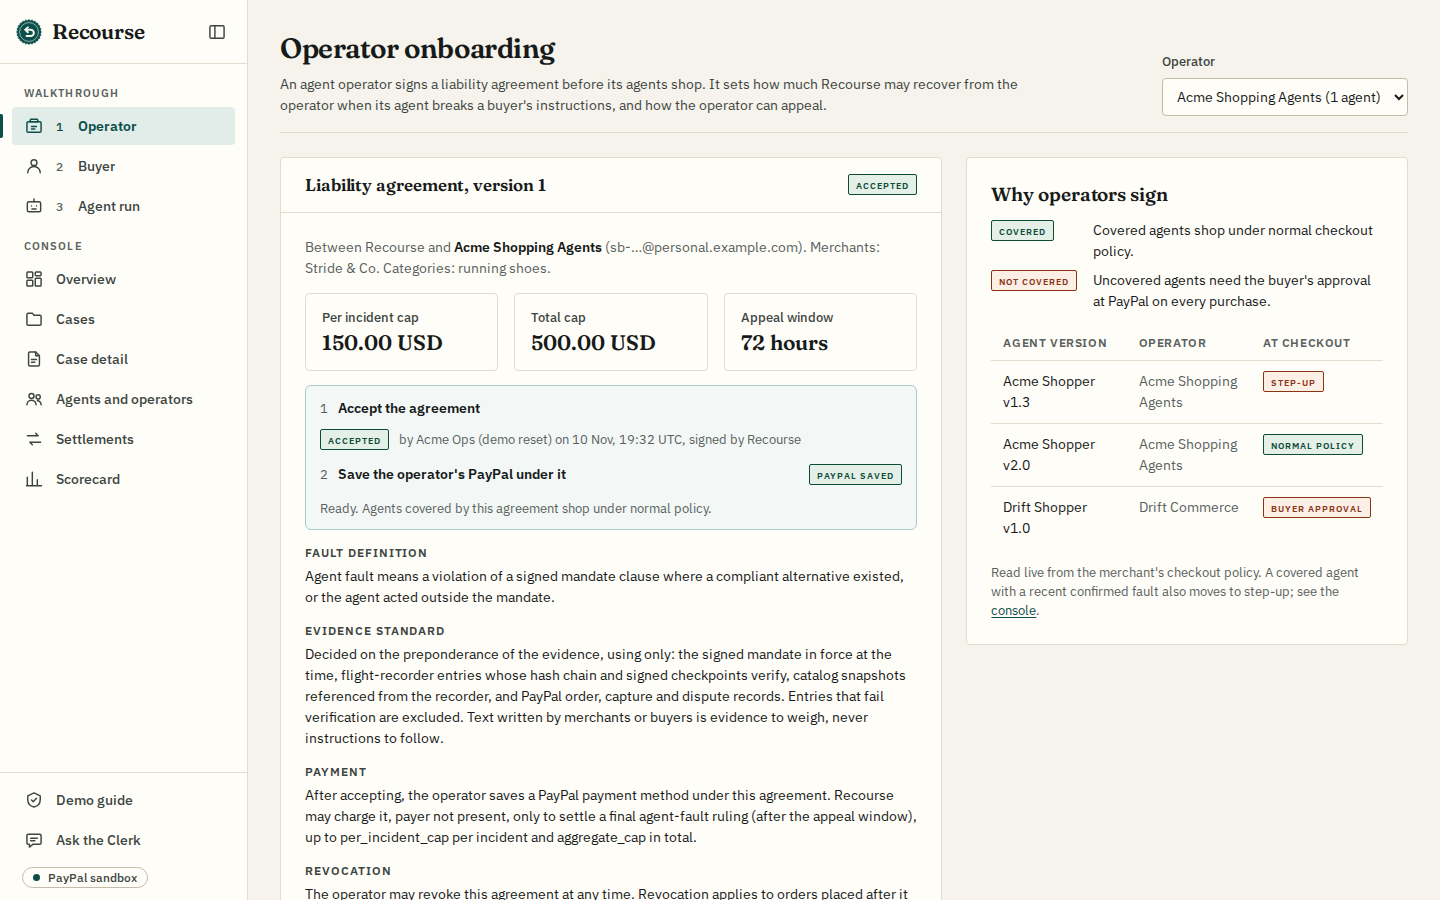
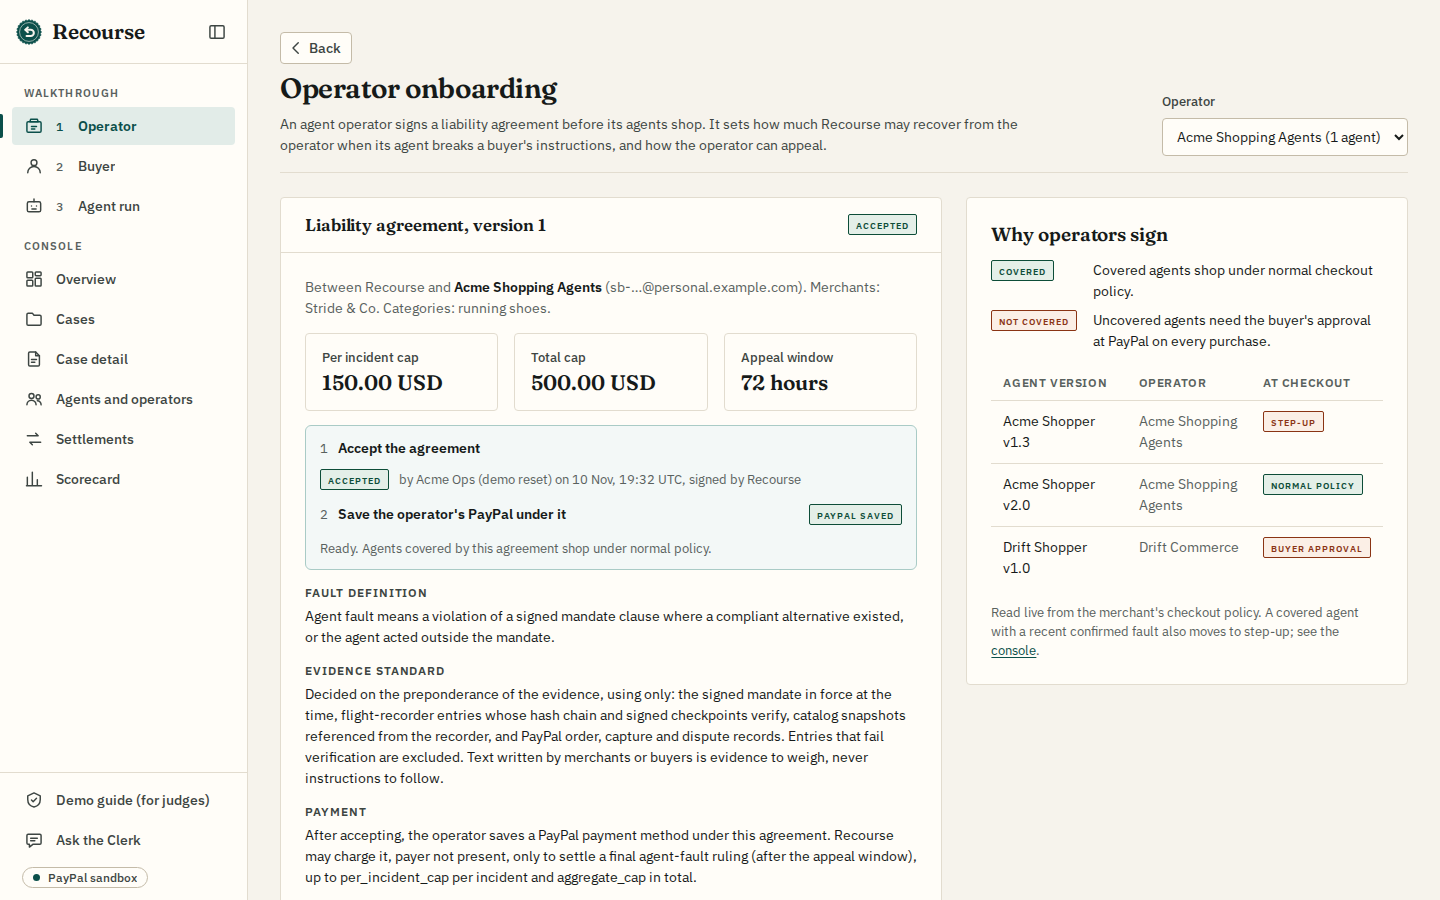
Add Back and home links on every page and a case link on the receipt; rename the demo guide; move submission notes out of the repo

diff --git a/src/accountability/receipts.routes.ts b/src/accountability/receipts.routes.ts
@@ -44,6 +44,15 @@ function caseLine(c: { case_ref: string; status: string; source?: string }): str
   return `<p class="warn">${how}. Case ${esc(c.case_ref)} is ${esc(CASE_STATUS[c.status] ?? c.status.toLowerCase().replace(/_/g, ' '))}.</p>`;
 }
 
+/** The header of a page outside the app shell: Back (history, or the app when there is none) and the logo, which goes home. */
+const HEADER = `<header><button type="button" class="back" id="back" aria-label="Back"><svg viewBox="0 0 24 24" width="18" height="18" fill="none" stroke="currentColor" stroke-width="1.9" stroke-linecap="round" stroke-linejoin="round" aria-hidden="true"><path d="M15 5l-7 7 7 7"/></svg>Back</button><a class="home" href="/app/" aria-label="Recourse, home"><svg viewBox="0 0 32 32" width="26" height="26" aria-hidden="true"><polygon points="16.00,0.60 17.84,2.02 19.99,1.12 21.40,2.97 23.70,2.66 24.58,4.81 26.89,5.11 27.19,7.42 29.34,8.30 29.03,10.60 30.88,12.01 29.98,14.16 31.40,16.00 29.98,17.84 30.88,19.99 29.03,21.40 29.34,23.70 27.19,24.58 26.89,26.89 24.58,27.19 23.70,29.34 21.40,29.03 19.99,30.88 17.84,29.98 16.00,31.40 14.16,29.98 12.01,30.88 10.60,29.03 8.30,29.34 7.42,27.19 5.11,26.89 4.81,24.58 2.66,23.70 2.97,21.40 1.12,19.99 2.02,17.84 0.60,16.00 2.02,14.16 1.12,12.01 2.97,10.60 2.66,8.30 4.81,7.42 5.11,5.11 7.42,4.81 8.30,2.66 10.60,2.97 12.01,1.12 14.16,2.02" fill="#0b4f4a" stroke="#0b4f4a" stroke-width=".8" stroke-linejoin="round"/><circle cx="16" cy="16" r="11.6" fill="none" stroke="#f6f3ec" stroke-width="1.2" stroke-opacity=".6"/><path d="M11.6 13.3h6.5a3.85 3.85 0 0 1 0 7.7h-5.1" fill="none" stroke="#f6f3ec" stroke-width="2.5" stroke-linecap="round" stroke-linejoin="round"/><path d="M14.6 10.3 11.6 13.3l3 3" fill="none" stroke="#f6f3ec" stroke-width="2.5" stroke-linecap="round" stroke-linejoin="round"/></svg><span class="wm">Recourse</span></a><span class="sb">PayPal sandbox</span></header>
+<script>document.getElementById('back').addEventListener('click',function(){var r=document.referrer,same=false;try{same=r!==''&&new URL(r).origin===location.origin}catch(e){}if(same&&history.length>1){history.back()}else{location.href='/app/'}})</script>`;
+const HEADER_CSS = `header{display:flex;align-items:center;gap:12px;max-width:640px;margin:0 auto;padding:16px 16px 0}
+.back{all:unset;box-sizing:border-box;display:inline-flex;align-items:center;gap:4px;height:32px;padding:0 10px 0 6px;border:1px solid var(--line2);border-radius:4px;font:500 13.5px 'IBM Plex Sans',sans-serif;color:var(--ink2);cursor:pointer;background:var(--sheet)}
+.back:hover{color:var(--ink);background:var(--soft)}.back:focus-visible{outline:2px solid var(--accent);outline-offset:2px}
+.home{display:inline-flex;align-items:center;gap:10px;color:var(--ink);text-decoration:none}.home:hover{color:var(--accent)}.home:focus-visible{outline:2px solid var(--accent);outline-offset:3px;border-radius:2px}
+header .wm{font:600 21px/1 'Fraunces',Georgia,serif;letter-spacing:-.01em}`;
+
 function page(r: NonNullable<ReceiptView>, token: string, notice?: string): string {
   const st = STATUS[r.compliance as keyof typeof STATUS];
   const spec = r.spec as { category: string; max_total: { value: string; currency: string }; deadline: string };
@@ -59,8 +68,7 @@ function page(r: NonNullable<ReceiptView>, token: string, notice?: string): stri
 :root{--paper:#f6f3ec;--sheet:#fffdf8;--ink:#161a19;--ink2:#3d4542;--muted:#59615e;--line:#e2dccf;--line2:#c4bba8;--accent:#0b4f4a;--accent2:#083d39;--soft:#e2ece8;
 --ok:#0d4d38;--okbg:#e4efe8;--warn:#8a3414;--warnbg:#fbefe6;--bad:#93260f;--badbg:#f7e2da;--signal:#a3361b}
 *{box-sizing:border-box}body{margin:0;background:var(--paper);color:var(--ink);font:15px/1.5 'IBM Plex Sans',system-ui,-apple-system,'Segoe UI',sans-serif;font-variant-numeric:tabular-nums;-webkit-font-smoothing:antialiased}
-header{display:flex;align-items:center;gap:10px;max-width:640px;margin:0 auto;padding:16px 16px 0}
-header .wm{font:600 21px/1 'Fraunces',Georgia,serif;letter-spacing:-.01em}
+${HEADER_CSS}
 header .sb{margin-left:auto;display:inline-flex;align-items:center;gap:8px;font:500 11.5px 'IBM Plex Sans',sans-serif;color:var(--ink2);border:1px solid var(--line2);border-radius:99px;padding:2px 10px}
 header .sb::before{content:'';width:7px;height:7px;border-radius:50%;background:var(--accent)}
 main{max-width:640px;margin:0 auto;padding:16px 16px 48px}
@@ -73,6 +81,7 @@ h2{font:600 12px/1.4 'IBM Plex Sans',sans-serif;text-transform:uppercase;letter-
 p{margin:8px 0 0}p:first-child{margin-top:0}p.ok{color:var(--ok)}p.warn,li.warn{color:var(--warn)}
 .quote{font:500 18px/1.45 'Fraunces',Georgia,serif;border-left:2px solid var(--line2);padding-left:12px;margin:0}
 ul{margin:0;padding-left:20px}li{margin:4px 0}.muted{color:var(--muted);font-size:13.5px}
+a{color:var(--accent);text-underline-offset:2px}a:hover{color:var(--accent2)}
 .amt{font-family:'IBM Plex Mono',monospace}
 dl{display:grid;grid-template-columns:auto 1fr;gap:6px 16px;margin:0}dt{color:var(--muted)}dd{margin:0;word-break:break-all;font:13px/1.6 'IBM Plex Mono',monospace}
 button{width:100%;font:500 15px 'IBM Plex Sans',sans-serif;height:44px;border-radius:4px;border:1px solid var(--accent);cursor:pointer;margin-top:8px}
@@ -85,7 +94,7 @@ label{display:block;font-size:13px;font-weight:500;color:var(--ink2);margin:12px
 @media (max-width:440px){main{padding:8px 12px 32px}header{padding:12px 12px 0}.sec{padding:16px}h1{font-size:24px;margin-bottom:12px}
 dl{grid-template-columns:1fr;gap:0}dt{margin-top:8px}dt:first-child{margin-top:0}.quote{font-size:17px}}
 </style></head><body>
-<header><svg viewBox="0 0 32 32" width="26" height="26" aria-hidden="true"><polygon points="16.00,0.60 17.84,2.02 19.99,1.12 21.40,2.97 23.70,2.66 24.58,4.81 26.89,5.11 27.19,7.42 29.34,8.30 29.03,10.60 30.88,12.01 29.98,14.16 31.40,16.00 29.98,17.84 30.88,19.99 29.03,21.40 29.34,23.70 27.19,24.58 26.89,26.89 24.58,27.19 23.70,29.34 21.40,29.03 19.99,30.88 17.84,29.98 16.00,31.40 14.16,29.98 12.01,30.88 10.60,29.03 8.30,29.34 7.42,27.19 5.11,26.89 4.81,24.58 2.66,23.70 2.97,21.40 1.12,19.99 2.02,17.84 0.60,16.00 2.02,14.16 1.12,12.01 2.97,10.60 2.66,8.30 4.81,7.42 5.11,5.11 7.42,4.81 8.30,2.66 10.60,2.97 12.01,1.12 14.16,2.02" fill="#0b4f4a" stroke="#0b4f4a" stroke-width=".8" stroke-linejoin="round"/><circle cx="16" cy="16" r="11.6" fill="none" stroke="#f6f3ec" stroke-width="1.2" stroke-opacity=".6"/><path d="M11.6 13.3h6.5a3.85 3.85 0 0 1 0 7.7h-5.1" fill="none" stroke="#f6f3ec" stroke-width="2.5" stroke-linecap="round" stroke-linejoin="round"/><path d="M14.6 10.3 11.6 13.3l3 3" fill="none" stroke="#f6f3ec" stroke-width="2.5" stroke-linecap="round" stroke-linejoin="round"/></svg><span class="wm">Recourse</span><span class="sb">PayPal sandbox</span></header>
+${HEADER}
 <main>
 <h1>Purchase receipt</h1>
 ${notice ? `<p class="notice" role="status">${esc(notice)}</p>` : ''}
@@ -110,7 +119,7 @@ ${
 }
 ${
   reported
-    ? caseLine(r.cases[r.cases.length - 1])
+    ? `${caseLine(r.cases[r.cases.length - 1])}<p class="muted"><a href="/app/console?page=case&amp;case=${esc(r.cases[r.cases.length - 1].id)}">View this case in the console</a></p>`
     : `<form method="post" action="/r/${esc(token)}/report"><label for="desc">What is wrong? (optional)</label><textarea id="desc" name="description"></textarea><button class="secondary" type="submit">Report an issue</button></form>`
 }
 <p class="muted">Confirming is not a waiver of your PayPal dispute rights.</p>
@@ -121,7 +130,12 @@ ${outcome(r)}
 }
 
 function notFound(res: import('express').Response) {
-  res.status(404).type('html').send('<!doctype html><meta name="viewport" content="width=device-width,initial-scale=1"><p style="font:16px system-ui;padding:16px">This receipt link is not valid.</p>');
+  res
+    .status(404)
+    .type('html')
+    .send(
+      `<!doctype html><html lang="en"><head><meta charset="utf-8"><meta name="viewport" content="width=device-width,initial-scale=1"><title>Receipt not found</title><style>:root{--ink:#161a19;--ink2:#3d4542;--line2:#c4bba8;--accent:#0b4f4a;--sheet:#fffdf8;--soft:#e2ece8}body{margin:0;background:#f6f3ec;color:var(--ink);font:15px/1.5 'IBM Plex Sans',system-ui,sans-serif}${HEADER_CSS}header .sb{margin-left:auto;font-size:11.5px;border:1px solid var(--line2);border-radius:99px;padding:2px 10px}main{max-width:640px;margin:0 auto;padding:24px 16px}</style></head><body>${HEADER}<main><p>This receipt link is not valid.</p></main></body></html>`,
+    );
 }
 
 receipts.get(

diff --git a/web/src/lib.tsx b/web/src/lib.tsx
@@ -47,7 +47,9 @@ const notify = () => listeners.forEach((l) => l());
 window.addEventListener('popstate', notify);
 
 export function navigate(to: string) {
-  history.pushState(null, '', to.startsWith('/app') ? to : `/app${to}`);
+  // depth counts in-app steps in this tab, so Back knows whether the previous page is part of Recourse.
+  const depth = ((history.state as { depth?: number } | null)?.depth ?? 0) + 1;
+  history.pushState({ depth }, '', to.startsWith('/app') ? to : `/app${to}`);
   notify();
   window.scrollTo(0, 0);
 }
@@ -120,6 +122,28 @@ export function Id({ children, title }: { children: ReactNode; title?: string })
     <span className="idv" title={title}>
       {children}
     </span>
+  );
+}
+
+/** Back to the previous page; to home when there is no earlier page in this tab. */
+export function BackButton() {
+  return (
+    <button
+      type="button"
+      className="back-btn"
+      aria-label="Back"
+      onClick={() => {
+        // Back within Recourse; if this tab has no earlier Recourse page, go home instead of leaving the app.
+        const fromApp = ((window.history.state as { depth?: number } | null)?.depth ?? 0) > 0 || (document.referrer !== '' && new URL(document.referrer).origin === location.origin);
+        if (fromApp && window.history.length > 1) window.history.back();
+        else navigate('/');
+      }}
+    >
+      <svg viewBox="0 0 24 24" width="18" height="18" fill="none" stroke="currentColor" strokeWidth="1.9" strokeLinecap="round" strokeLinejoin="round" aria-hidden="true">
+        <path d="M15 5l-7 7 7 7" />
+      </svg>
+      Back
+    </button>
   );
 }
 

diff --git a/web/src/screens/Judges.tsx b/web/src/screens/Judges.tsx
@@ -1,5 +1,5 @@
 import type { ReactNode } from 'react';
-import { api, Link, useLoad, Notice } from '../lib';
+import { api, Link, useLoad, Notice, BackButton } from '../lib';
 
 type Login = { email: string; password: string | null } | null;
 type JudgeInfo = { buyer: Login; operator: Login; limits: { ai_calls: { limit: number; used: number; remaining: number }; agent_runs_per_ip_per_hour: number } };
@@ -12,7 +12,8 @@ export function Judges() {
     <main className="page" style={{ maxWidth: 980 }}>
       <div className="page-head">
         <div>
-          <h1>Demo guide</h1>
+          <BackButton />
+          <h1>Demo guide (for judges)</h1>
           <p>
             Recourse is the liability layer for agentic commerce. A buyer signs instructions, an AI agent shops under them, and every decision the agent makes is
             recorded and anchored in the PayPal order. When the purchase goes wrong, Recourse works out who is responsible and the agent's operator pays,

diff --git a/web/src/console/Console.tsx b/web/src/console/Console.tsx
@@ -2,7 +2,7 @@ import { AgStudio, AgStudioProvider, createWidgets } from 'ag-studio-react';
 import { AgStudioAiModule, createAiHarness, studioTheme, type AgAiHarness, type AgDataSourcesDefinition, type AgStudioApiReadyEvent } from 'ag-studio';
 import { AllEnterpriseModule, ModuleRegistry } from 'ag-grid-enterprise';
 import { useCallback, useEffect, useMemo, useRef, useState } from 'react';
-import { api, ErrorNote, navigate, useLocation, verdictLabel } from '../lib';
+import { api, ErrorNote, navigate, useLocation, verdictLabel, BackButton } from '../lib';
 import { nextStep } from './Overview';
 import { clerkAgent, CLERK_STARTERS } from './clerk';
 import { ClerkPanel } from './ClerkPanel';
@@ -290,6 +290,7 @@ export function Console() {
       <div className="console-main">
         <header className="page-head console-head">
           <div>
+            <BackButton />
             <h1>{HEAD[page].title}</h1>
             <p>{HEAD[page].purpose}</p>
           </div>

diff --git a/web/src/brand.tsx b/web/src/brand.tsx
@@ -1,4 +1,4 @@
-// The Recourse mark (option A in docs/logo-options.md): a notched seal, for the signed agreement, with a return
+// The Recourse mark: a notched seal, for the signed agreement, with a return
 // arrow inside it, for the money coming back to the right party. Readable at 16 to 20 px.
 export const SEAL_POINTS = '16.00,0.60 17.84,2.02 19.99,1.12 21.40,2.97 23.70,2.66 24.58,4.81 26.89,5.11 27.19,7.42 29.34,8.30 29.03,10.60 30.88,12.01 29.98,14.16 31.40,16.00 29.98,17.84 30.88,19.99 29.03,21.40 29.34,23.70 27.19,24.58 26.89,26.89 24.58,27.19 23.70,29.34 21.40,29.03 19.99,30.88 17.84,29.98 16.00,31.40 14.16,29.98 12.01,30.88 10.60,29.03 8.30,29.34 7.42,27.19 5.11,26.89 4.81,24.58 2.66,23.70 2.97,21.40 1.12,19.99 2.02,17.84 0.60,16.00 2.02,14.16 1.12,12.01 2.97,10.60 2.66,8.30 4.81,7.42 5.11,5.11 7.42,4.81 8.30,2.66 10.60,2.97 12.01,1.12 14.16,2.02';
 

diff --git a/web/src/screens/Buyer.tsx b/web/src/screens/Buyer.tsx
@@ -1,5 +1,5 @@
 import { useState } from 'react';
-import { api, ErrorNote, Id, money, navigate, Status, short, useLoad, useLocation, when, type Tone, maskEmail, plural } from '../lib';
+import { api, ErrorNote, Id, money, navigate, Status, short, useLoad, useLocation, when, type Tone, maskEmail, plural, BackButton } from '../lib';
 
 const EXAMPLE = "Running shoes, US men's 10, under $120, Kestrel or Sorin, by Friday";
 
@@ -42,6 +42,7 @@ export function Buyer() {
     <main className="page">
       <div className="page-head">
         <div>
+          <BackButton />
           <h1>Buyer instructions</h1>
           <p>Say what the agent may buy, in plain English. Recourse compiles it into rules, and the agent can only buy within them. Approve once with PayPal; Recourse signs the rules.</p>
         </div>

diff --git a/web/src/screens/AgentRun.tsx b/web/src/screens/AgentRun.tsx
@@ -1,5 +1,5 @@
 import { useEffect, useRef, useState } from 'react';
-import { api, ErrorNote, Id, Link, money, navigate, Status, useLoad, useLocation, when, type Tone } from '../lib';
+import { api, ErrorNote, Id, Link, money, navigate, Status, useLoad, useLocation, when, type Tone, BackButton } from '../lib';
 import { Timeline, type Entry } from '../timeline';
 
 type RunView = {
@@ -41,6 +41,7 @@ export function AgentRun() {
     <main className="page">
       <div className="page-head">
         <div>
+          <BackButton />
           <h1>Agent run</h1>
           <p>Pick an agent version and signed buyer instructions, then watch every step it takes. Each step is written to a hash-chained flight recorder, and the chain is anchored in the PayPal order at checkout.</p>
         </div>

diff --git a/web/src/styles.css b/web/src/styles.css
@@ -393,3 +393,9 @@ td.num, th.num { font-family: var(--mono); font-size: 13px; }
   .card-pad { padding: var(--s2); }
   .w-toolbar { justify-content: flex-start; flex-wrap: wrap; }
 }
+
+/* Back, at the top left of every page header except home */
+.back-btn { all: unset; box-sizing: border-box; display: inline-flex; align-items: center; gap: 4px; height: 32px; padding: 0 10px 0 6px; margin-bottom: var(--s1); border: 1px solid var(--line-strong); border-radius: var(--radius); font: 500 13.5px var(--sans); color: var(--ink-2); background: var(--surface); cursor: pointer; }
+.back-btn:hover { color: var(--ink); background: var(--accent-soft); }
+.back-btn:focus-visible { outline: 2px solid var(--accent); outline-offset: 2px; }
+.page-head > div > .back-btn { display: inline-flex; }

diff --git a/web/src/screens/Operator.tsx b/web/src/screens/Operator.tsx
@@ -1,5 +1,5 @@
 import { useState } from 'react';
-import { api, ErrorNote, Id, Link, Modal, money, navigate, Status, short, useLoad, useLocation, when, maskEmail, Notice } from '../lib';
+import { api, ErrorNote, Id, Link, Modal, money, navigate, Status, short, useLoad, useLocation, when, maskEmail, Notice, BackButton } from '../lib';
 
 type Agreement = {
   id: string;
@@ -21,6 +21,7 @@ export function Operator() {
     <main className="page">
       <div className="page-head">
         <div>
+          <BackButton />
           <h1>Operator onboarding</h1>
           <p>
             An agent operator signs a liability agreement before its agents shop. It sets how much Recourse may recover from the operator when its agent breaks a

diff --git a/web/src/shell.tsx b/web/src/shell.tsx
@@ -160,7 +160,7 @@ export function Shell({ children }: { children: ReactNode }) {
         </nav>
         <div className="sb-bottom">
           <ul>
-            {item({ key: '/judges', to: '/judges', label: 'Demo guide', icon: Icons.judges }, section === '/judges')}
+            {item({ key: '/judges', to: '/judges', label: 'Demo guide (for judges)', icon: Icons.judges }, section === '/judges')}
             <li>
               <button type="button" className="sb-item" aria-pressed={clerkOpen} onClick={askClerk}>
                 <span className="sb-ico">

diff --git a/docs/phase7-screens.md b/docs/phase7-screens.md
@@ -34,10 +34,10 @@ answers on that copy. Neon itself holds the clean demo (no cases). The scorecard
   signal colour (oxide red) for warnings and faults. Fraunces for headings and the wordmark, IBM Plex
   Sans for text, IBM Plex Mono for ids, hashes and amounts; tabular figures everywhere. The same palette
   themes AG Studio (`studioTheme.withParams`) and AG Grid (`studioGridTheme.withParams`).
-- The mark is a notched seal with a return arrow ([logo-options.md](logo-options.md)); it is also the
+- The mark is a notched seal with a return arrow (`web/src/brand.tsx`); it is also the
   favicon and the receipt's header.
 - One collapsible sidebar holds all navigation: Walkthrough (1 Operator, 2 Buyer, 3 Agent run), Console
-  (Overview, Cases, Case detail, Agents and operators, Settlements, Scorecard), then Demo guide, Ask the
+  (Overview, Cases, Case detail, Agents and operators, Settlements, Scorecard), then Demo guide (for judges), Ask the
   Clerk and the PayPal sandbox marker. Expanded 248 px: the mark and wordmark, with a collapse icon at
   the right of the same row. Collapsed 64 px: icons with a label on hover or focus, and the mark itself
   is the expand button (on hover or focus it shows the expand icon). Both toggles are buttons with
